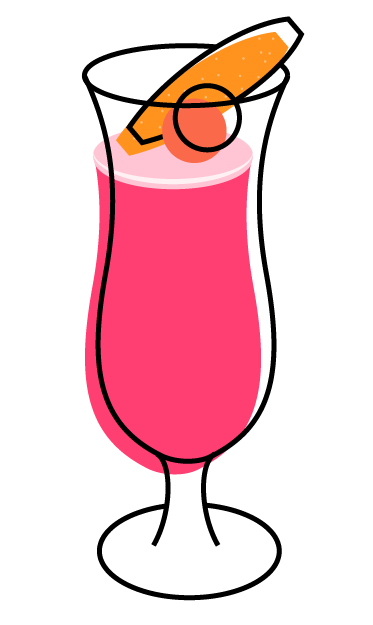
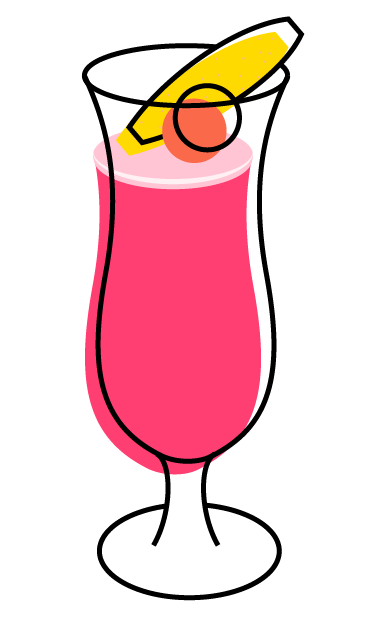
Finetuning

Changed region(s): [[0.2949, 0.0304, 0.7668, 0.2432]]

diff --git a/singapore-sling.html b/singapore-sling.html
@@ -38,15 +38,18 @@
 				<hr>
 				<ul>
 					<li>Maraschino cherry</li>
-					<li>Lemon wedge</li>
+					<li>Lemon twist</li>
 				</ul>
 				</aside><br>
 				<img src="images/shaker.png" alt="cocktail shaker illustration" class="shaker">
 			</article>
 			<article>
 				<p>
-					The word "sling" in North America traditionally refers to a drink made with alcohol, flavoring (such as fruit juice), and water. Because of this, there's no main recipe for a Singapore Sling. The recipe listed here is just one take on it, but feel free to explore further combinations of flavors!<br>
-					Originally created in a Singapore hotel by bartender named Ngiam Tong Boon and was called the "gin sling".
+				The word "sling" in North America traditionally refers to a drink made with alcohol, flavoring (such as fruit juice), and water. Because of this, there's no main recipe for a Singapore Sling. The recipe listed here is just one take on it, but feel free to explore further combinations of flavors!<br>
+				This cocktail was originally created in a Singapore hotel by bartender named Ngiam Tong Boon and was called the "gin sling" around 1915. Through the years, the interpretation of the Singapore Sling has changed. Depending on where you are, or if you don't specify your preferred recipe, the drink is a completely different style each time.<br><br>
+				<strong>1.</strong> This version of a Singapore Sling is made by first adding all ingredients into a cocktail shaker with ice<br><br>
+				<strong>2.</strong> Give it a good shake and strain the mix into a chilled hurricane or highball glass (type of glass is completely up to you)<br><br>
+				<strong>3.</strong> Garnish with a lemdon twist and maraschino cherry and enjoy!
 				</p>
 			</article>
 			<article class="sling">

diff --git a/css/style.css b/css/style.css
@@ -149,6 +149,7 @@ p {
 	padding-top:71px;
 	padding-right:100px;
 	padding-bottom:71px;
+	margin-top:-188px;
 }
 
 .fashion {
@@ -251,15 +252,10 @@ aside {
 }
 
 .columns-fashioned p {
-	padding-left:38px;
 	padding-bottom:70px;
 }
 
 .shaker {
-	padding-top:17px;
-	padding-bottom:17px;
-	padding-left:8px;
-	padding-right:8px;
 	max-width:246px;
 	min-width:206px;
 	border: 7px solid;
